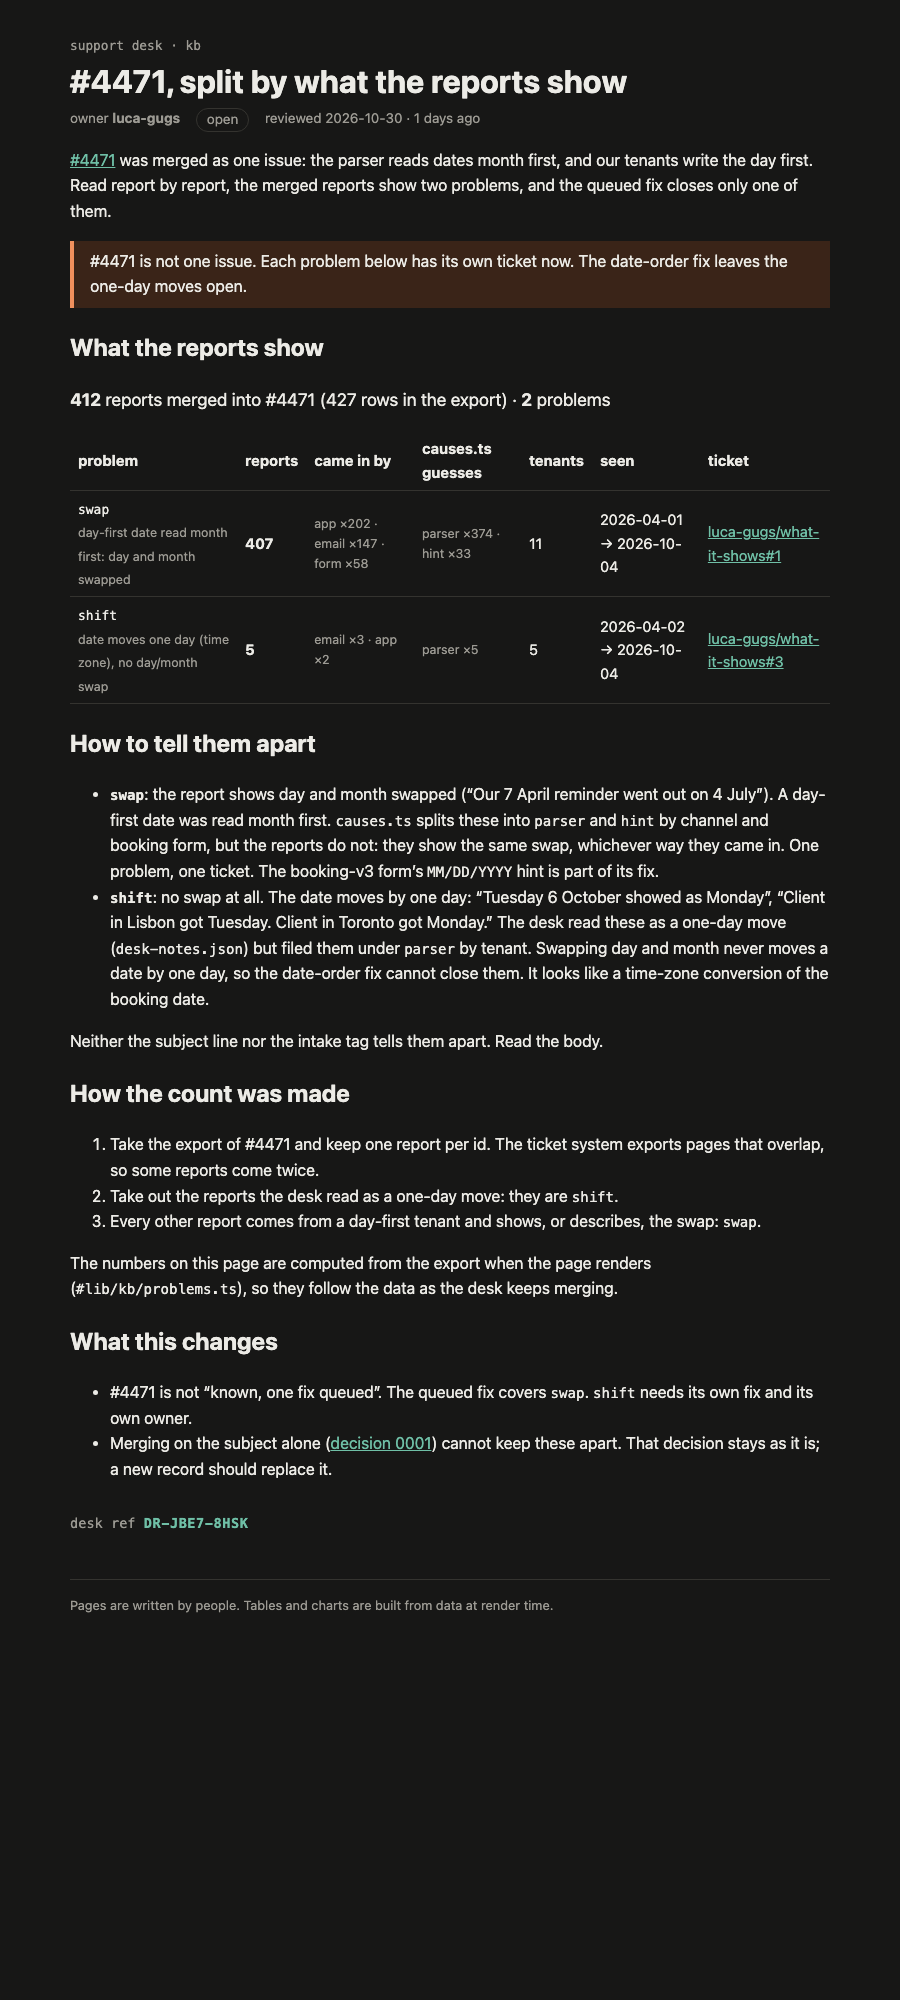
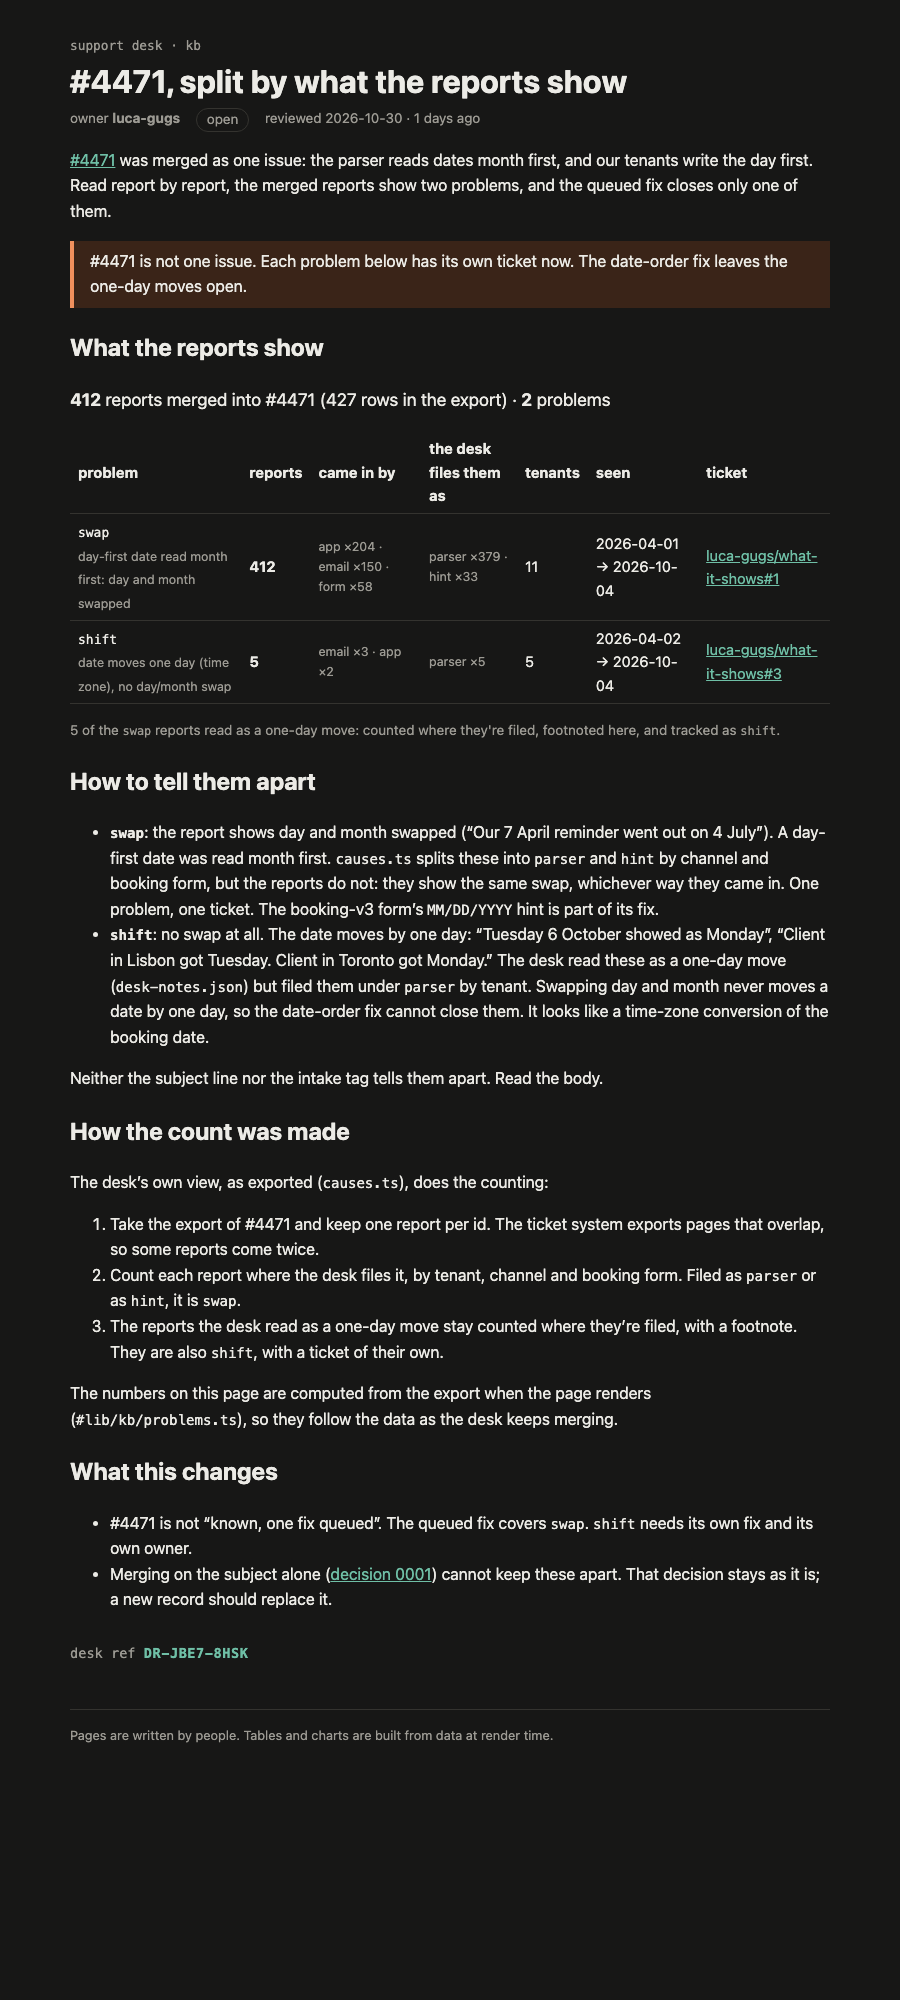
Count #4471's problems with the desk's own view: swap 412, shift 5
Each report is counted where the desk files it; the one-day moves stay
counted under swap with a footnote and also make up shift.

diff --git a/rendered/kb--incidents--4471-split.html b/rendered/kb--incidents--4471-split.html
@@ -3,39 +3,41 @@
   <head>
     <meta charset="utf-8" />
     <meta name="viewport" content="width=device-width, initial-scale=1" />
-    <link href="../../_app/immutable/entry/start.ypSXCUn4.js" rel="modulepreload">
-		<link href="../../_app/immutable/chunks/DWQsTwSJ.js" rel="modulepreload">
+    <link href="../../_app/immutable/entry/start.CQW-oFAG.js" rel="modulepreload">
+		<link href="../../_app/immutable/chunks/DRIsWUox.js" rel="modulepreload">
 		<link href="../../_app/immutable/chunks/W8JXJZ79.js" rel="modulepreload">
-		<link href="../../_app/immutable/entry/app.CPaV1Nei.js" rel="modulepreload">
+		<link href="../../_app/immutable/entry/app.onHTpZM_.js" rel="modulepreload">
 		<link href="../../_app/immutable/chunks/xihTtKlq.js" rel="modulepreload">
 		<link href="../../_app/immutable/nodes/0.C46UDYLG.js" rel="modulepreload">
-		<link href="../../_app/immutable/nodes/5.CsN-SNQ-.js" rel="modulepreload">
-		<link href="../../_app/immutable/chunks/C-ymF44I.js" rel="modulepreload">
+		<link href="../../_app/immutable/nodes/5.D_m1s_YO.js" rel="modulepreload">
+		<link href="../../_app/immutable/chunks/BHqP9XoD.js" rel="modulepreload">
 		<link href="../../_app/immutable/chunks/DooIRhXB.js" rel="modulepreload">
 		<link href="../../_app/immutable/chunks/CVBzP17p.js" rel="modulepreload">
 		<link href="../../_app/immutable/chunks/CrgYNgkp.js" rel="modulepreload">
 		<!--e2jw2j--><!----><title>#4471, split by what the reports show · support kb</title>
 		<style>:root{--bg:#fbfaf7;--fg:#1d1d1b;--muted:#6b6a66;--line:#e3e0d8;--accent:#2f6f5e;--warn:#b4501f;--warn-bg:#fbeee6;--note-bg:#eef5f2;--mono:ui-monospace, "Cascadia Code", Menlo, monospace}@media (prefers-color-scheme:dark){:root{--bg:#171716;--fg:#ecebe6;--muted:#9c9a93;--line:#34332f;--accent:#6fbfa6;--warn:#f0905d;--warn-bg:#3a2418;--note-bg:#1d2c27}}body{background:var(--bg);color:var(--fg);margin:0;font:16px/1.6 system-ui,sans-serif}.kb table{border-collapse:collapse;width:100%;margin:1rem 0;font-size:.92rem}.kb th,.kb td{border-bottom:1px solid var(--line);text-align:left;padding:.35rem .5rem}.kb code{font-family:var(--mono);font-size:.88em}.kb a{color:var(--accent)}.kb.svelte-e2jw2j{max-width:760px;margin:0 auto;padding:2rem 16px 4rem}.crumb.svelte-e2jw2j{font:.8rem var(--mono);color:var(--muted);text-decoration:none}h1.svelte-e2jw2j{margin:.25rem 0 .5rem;line-height:1.2}.meta.svelte-e2jw2j{color:var(--muted);flex-wrap:wrap;gap:.5rem 1rem;margin:0;font-size:.85rem;display:flex}.status.svelte-e2jw2j{border:1px solid var(--line);border-radius:99px;padding:0 .6rem}.stale.svelte-e2jw2j{color:var(--warn);font-weight:600}.banner.svelte-e2jw2j{background:var(--warn-bg);color:var(--warn);border-radius:6px;padding:.6rem 1rem}footer.svelte-e2jw2j{color:var(--muted);border-top:1px solid var(--line);margin-top:3rem;padding-top:1rem;font-size:.8rem}
 aside.svelte-17bri61{border-left:4px solid var(--accent);background:var(--note-bg);margin:1rem 0;padding:.5rem 1rem}aside.warn.svelte-17bri61{border-color:var(--warn);background:var(--warn-bg)}
-.sum.svelte-1op6c6{font-size:1.1rem}.what.svelte-1op6c6,.tags.svelte-1op6c6{color:var(--muted);font-size:.85em}.open.svelte-1op6c6 td:where(.svelte-1op6c6){background:var(--warn-bg)}.open.svelte-1op6c6 td:where(.svelte-1op6c6):last-child{color:var(--warn);font-weight:600}.stamp.svelte-1280m42{font:.85rem var(--mono);color:var(--muted);margin:2rem 0 0}.stamp.svelte-1280m42 b:where(.svelte-1280m42){color:var(--accent);letter-spacing:.04em}.missing.svelte-1280m42{color:var(--warn)}
+.sum.svelte-1op6c6{font-size:1.1rem}.what.svelte-1op6c6,.tags.svelte-1op6c6,.note.svelte-1op6c6{color:var(--muted);font-size:.85em}.open.svelte-1op6c6 td:where(.svelte-1op6c6){background:var(--warn-bg)}.open.svelte-1op6c6 td:where(.svelte-1op6c6):last-child{color:var(--warn);font-weight:600}.stamp.svelte-1280m42{font:.85rem var(--mono);color:var(--muted);margin:2rem 0 0}.stamp.svelte-1280m42 b:where(.svelte-1280m42){color:var(--accent);letter-spacing:.04em}.missing.svelte-1280m42{color:var(--warn)}
 </style>
 		<link href="../../_app/immutable/assets/runbook.COyw0cbZ.css" rel="stylesheet" disabled media="(max-width: 0)">
 		<link href="../../_app/immutable/assets/Callout.AbLv9dM_.css" rel="stylesheet" disabled media="(max-width: 0)">
-		<link href="../../_app/immutable/assets/_page.D1Ln7qmf.css" rel="stylesheet" disabled media="(max-width: 0)">
+		<link href="../../_app/immutable/assets/_page.DS1G4YV-.css" rel="stylesheet" disabled media="(max-width: 0)">
   </head>
   <body data-sveltekit-preload-data="hover">
     <div style="display: contents"><!--[--><!--[0--><!--[--><!--[--><div class="kb svelte-e2jw2j"><header><a class="crumb svelte-e2jw2j" href="/kb">support desk · kb</a> <h1 class="svelte-e2jw2j">#4471, split by what the reports show</h1> <p class="meta svelte-e2jw2j"><span>owner <b>luca-gugs</b></span> <span class="status open svelte-e2jw2j">open</span> <span class="svelte-e2jw2j">reviewed 2026-10-30 · 1 days ago</span></p></header> <!--[-1--><!--]--> <main><p><a href="/kb/incidents/4471">#4471</a> was merged as one issue: the parser reads dates month first, and our
 tenants write the day first. Read report by report, the merged reports show two problems, and the
 queued fix closes only one of them.</p> <aside class="warn svelte-17bri61"><!---->#4471 is not one issue. Each problem below has its own ticket now. The date-order fix leaves the
-one-day moves open.<!----></aside><!----> <h2>What the reports show</h2> <p class="sum svelte-1op6c6"><strong>412</strong> reports merged into #4471 (427 rows in the export) · <strong>2</strong> problems</p> <table><thead><tr><th>problem</th><th>reports</th><th>came in by</th><th>causes.ts guesses</th><th>tenants</th><th>seen</th><th>ticket</th></tr></thead><tbody><!--[--><tr class="svelte-1op6c6"><td class="svelte-1op6c6"><code>swap</code><br/><span class="what svelte-1op6c6">day-first date read month first: day and month swapped</span></td><td class="svelte-1op6c6"><strong>407</strong></td><td class="tags svelte-1op6c6">app ×202 · email ×147 · form ×58</td><td class="tags svelte-1op6c6">parser ×374 · hint ×33</td><td class="svelte-1op6c6">11</td><td class="svelte-1op6c6">2026-04-01 → 2026-10-04</td><td class="svelte-1op6c6"><!--[0--><a href="https://github.com/luca-gugs/what-it-shows/issues/1">luca-gugs/what-it-shows#1</a><!--]--></td></tr><tr class="svelte-1op6c6"><td class="svelte-1op6c6"><code>shift</code><br/><span class="what svelte-1op6c6">date moves one day (time zone), no day/month swap</span></td><td class="svelte-1op6c6"><strong>5</strong></td><td class="tags svelte-1op6c6">email ×3 · app ×2</td><td class="tags svelte-1op6c6">parser ×5</td><td class="svelte-1op6c6">5</td><td class="svelte-1op6c6">2026-04-02 → 2026-10-04</td><td class="svelte-1op6c6"><!--[0--><a href="https://github.com/luca-gugs/what-it-shows/issues/3">luca-gugs/what-it-shows#3</a><!--]--></td></tr><!--]--></tbody></table><!----> <h2>How to tell them apart</h2> <ul><li><strong><code>swap</code></strong>: the report shows day and month swapped (“Our 7 April reminder went out on 4 July”). A
+one-day moves open.<!----></aside><!----> <h2>What the reports show</h2> <p class="sum svelte-1op6c6"><strong>412</strong> reports merged into #4471 (427 rows in the export) · <strong>2</strong> problems</p> <table><thead><tr><th>problem</th><th>reports</th><th>came in by</th><th>the desk files them as</th><th>tenants</th><th>seen</th><th>ticket</th></tr></thead><tbody><!--[--><tr class="svelte-1op6c6"><td class="svelte-1op6c6"><code>swap</code><br/><span class="what svelte-1op6c6">day-first date read month first: day and month swapped</span></td><td class="svelte-1op6c6"><strong>412</strong></td><td class="tags svelte-1op6c6">app ×204 · email ×150 · form ×58</td><td class="tags svelte-1op6c6">parser ×379 · hint ×33</td><td class="svelte-1op6c6">11</td><td class="svelte-1op6c6">2026-04-01 → 2026-10-04</td><td class="svelte-1op6c6"><!--[0--><a href="https://github.com/luca-gugs/what-it-shows/issues/1">luca-gugs/what-it-shows#1</a><!--]--></td></tr><tr class="svelte-1op6c6"><td class="svelte-1op6c6"><code>shift</code><br/><span class="what svelte-1op6c6">date moves one day (time zone), no day/month swap</span></td><td class="svelte-1op6c6"><strong>5</strong></td><td class="tags svelte-1op6c6">email ×3 · app ×2</td><td class="tags svelte-1op6c6">parser ×5</td><td class="svelte-1op6c6">5</td><td class="svelte-1op6c6">2026-04-02 → 2026-10-04</td><td class="svelte-1op6c6"><!--[0--><a href="https://github.com/luca-gugs/what-it-shows/issues/3">luca-gugs/what-it-shows#3</a><!--]--></td></tr><!--]--></tbody></table> <!--[--><!--[0--><p class="note svelte-1op6c6">5 of the <code>swap</code> reports read as a one-day move: counted where they're filed,
+      footnoted here, and tracked as <code>shift</code>.</p><!--]--><!--[-1--><!--]--><!--]--><!----> <h2>How to tell them apart</h2> <ul><li><strong><code>swap</code></strong>: the report shows day and month swapped (“Our 7 April reminder went out on 4 July”). A
 day-first date was read month first. <code>causes.ts</code> splits these into <code>parser</code> and <code>hint</code> by channel
 and booking form, but the reports do not: they show the same swap, whichever way they came in. One
 problem, one ticket. The booking-v3 form’s <code>MM/DD/YYYY</code> hint is part of its fix.</li> <li><strong><code>shift</code></strong>: no swap at all. The date moves by one day: “Tuesday 6 October showed as Monday”,
 “Client in Lisbon got Tuesday. Client in Toronto got Monday.” The desk read these as a one-day move
 (<code>desk-notes.json</code>) but filed them under <code>parser</code> by tenant. Swapping day and month never moves a
 date by one day, so the date-order fix cannot close them. It looks like a time-zone conversion of
-the booking date.</li></ul> <p>Neither the subject line nor the intake tag tells them apart. Read the body.</p> <h2>How the count was made</h2> <ol><li>Take the export of #4471 and keep one report per id. The ticket system exports pages that
-overlap, so some reports come twice.</li> <li>Take out the reports the desk read as a one-day move: they are <code>shift</code>.</li> <li>Every other report comes from a day-first tenant and shows, or describes, the swap: <code>swap</code>.</li></ol> <p>The numbers on this page are computed from the export when the page renders
+the booking date.</li></ul> <p>Neither the subject line nor the intake tag tells them apart. Read the body.</p> <h2>How the count was made</h2> <p>The desk’s own view, as exported (<code>causes.ts</code>), does the counting:</p> <ol><li>Take the export of #4471 and keep one report per id. The ticket system exports pages that
+overlap, so some reports come twice.</li> <li>Count each report where the desk files it, by tenant, channel and booking form. Filed as <code>parser</code> or as <code>hint</code>, it is <code>swap</code>.</li> <li>The reports the desk read as a one-day move stay counted where they’re filed, with a footnote.
+They are also <code>shift</code>, with a ticket of their own.</li></ol> <p>The numbers on this page are computed from the export when the page renders
 (<code>#lib/kb/problems.ts</code>), so they follow the data as the desk keeps merging.</p> <h2>What this changes</h2> <ul><li>#4471 is not “known, one fix queued”. The queued fix covers <code>swap</code>. <code>shift</code> needs its own fix and
 its own owner.</li> <li>Merging on the subject alone (<a href="/kb/decisions/0001-dedupe-by-subject">decision 0001</a>) cannot keep
 these apart. That decision stays as it is; a new record should replace it.</li></ul> <!--[0--><p class="stamp svelte-1280m42">desk ref <b class="svelte-1280m42">DR-JBE7-8HSK</b></p><!--]--><!----><!----></main> <footer class="svelte-e2jw2j">Pages are written by people. Tables and charts are built from data at render time.</footer></div><!--]--><!----><!--]--><!--]--> <!--[-1--><!--]--><!--]-->

diff --git a/src/lib/kb/problems.ts b/src/lib/kb/problems.ts
@@ -1,8 +1,8 @@
-// What a report shows, not which cause causes.ts guesses for it. causes.ts splits day-first tenants'
-// reports into `parser` and `hint` by channel and booking form; the reports themselves show one
-// thing, a day/month swap. The reports the desk read as a one-day move (desk-notes.json) show no
-// swap at all: no swap fix closes them. Two problems, by what the reports show.
-import { causeOf, type Report, type Tenant } from '#lib/kb/causes';
+// The problems in #4471, counted with the desk's own view (causes.ts, as exported). causes.ts files
+// day-first tenants' reports as `parser` or `hint` by channel and booking form; both show the same
+// day/month swap, so both are `swap`. The reports the desk read as a one-day move (desk-notes.json)
+// stay counted where they're filed and are footnoted there; they also make up `shift`.
+import { groupByCause, readAs, type CauseGroup, type Report, type Tenant } from '#lib/kb/causes';
 
 export type Problem = 'swap' | 'shift';
 
@@ -12,47 +12,47 @@ export const PROBLEM_LABEL: Record<Problem | 'unplaced', string> = {
   unplaced: 'no day-first tenant on file',
 };
 
-export function problemOf(r: Report, t: Tenant | undefined, oneDayMove: readonly string[]): Problem | 'unplaced' {
-  if (oneDayMove.includes(r.id)) return 'shift';
-  return causeOf(r, t) ? 'swap' : 'unplaced';
-}
-
-export type ProblemGroup = {
+export type ProblemRow = {
   problem: Problem | 'unplaced';
   reports: Report[];
+  // How the desk files these reports: cause → count.
+  filedAs: Record<string, number>;
+  // Of these, how many the desk read as a one-day move.
+  oneDayMove: number;
   tenants: number;
-  // How the reports came in: channel → count.
-  channels: Record<string, number>;
-  // What causes.ts guesses for them: cause → count.
-  guessed: Record<string, number>;
   firstSeen: string;
   lastSeen: string;
 };
 
 const tally = (keys: string[]) => keys.reduce<Record<string, number>>((n, k) => ({ ...n, [k]: (n[k] ?? 0) + 1 }), {});
 
-export function groupByProblem(
+function row(problem: ProblemRow['problem'], groups: CauseGroup[], oneDayMove: readonly string[]): ProblemRow {
+  const reports = groups.flatMap((g) => g.reports);
+  const days = reports.map((r) => r.receivedAt.slice(0, 10)).sort();
+  return {
+    problem,
+    reports,
+    filedAs: Object.fromEntries(groups.map((g) => [g.cause, g.reports.length])),
+    oneDayMove: groups.reduce((n, g) => n + readAs(g, oneDayMove), 0),
+    tenants: new Set(reports.map((r) => r.tenant)).size,
+    firstSeen: days[0],
+    lastSeen: days[days.length - 1],
+  };
+}
+
+export function problemRows(
   reports: Report[],
   tenantOf: (r: Report) => Tenant | undefined,
   oneDayMove: readonly string[],
-): ProblemGroup[] {
-  const byProblem = new Map<ProblemGroup['problem'], Report[]>();
-  for (const r of reports) {
-    const p = problemOf(r, tenantOf(r), oneDayMove);
-    byProblem.set(p, [...(byProblem.get(p) ?? []), r]);
-  }
-  return [...byProblem.entries()]
-    .map(([problem, rs]) => {
-      const days = rs.map((r) => r.receivedAt.slice(0, 10)).sort();
-      return {
-        problem,
-        reports: rs,
-        tenants: new Set(rs.map((r) => r.tenant)).size,
-        channels: tally(rs.map((r) => r.channel)),
-        guessed: tally(rs.map((r) => causeOf(r, tenantOf(r)) ?? 'none')),
-        firstSeen: days[0],
-        lastSeen: days[days.length - 1],
-      };
-    })
-    .sort((a, b) => b.reports.length - a.reports.length);
+): ProblemRow[] {
+  const groups = groupByCause(reports, tenantOf);
+  const filed = groups.filter((g) => g.cause !== 'unplaced');
+  const moved = groupByCause(reports.filter((r) => oneDayMove.includes(r.id)), tenantOf);
+  return [
+    row('swap', filed, oneDayMove),
+    row('shift', moved, oneDayMove),
+    ...groups.filter((g) => g.cause === 'unplaced').map((g) => row('unplaced', [g], oneDayMove)),
+  ].filter((p) => p.reports.length);
 }
+
+export const channels = (rs: Report[]) => tally(rs.map((r) => r.channel));

diff --git a/src/lib/kb/ProblemTable.svelte b/src/lib/kb/ProblemTable.svelte
@@ -3,14 +3,14 @@
   import notes from '#lib/data/desk-notes.json';
   import { uniqueById, type Report } from '#lib/kb/causes';
   import { tenantOf } from '#lib/kb/locales';
-  import { groupByProblem, PROBLEM_LABEL, type Problem } from '#lib/kb/problems';
+  import { channels, problemRows, PROBLEM_LABEL, type Problem } from '#lib/kb/problems';
 
   // `tickets`: where each problem is filed now, problem → ticket URL.
   let { ticket, tickets = {} }: { ticket: number; tickets?: Partial<Record<Problem, string>> } = $props();
 
   const rows = $derived((reports as Report[]).filter((r) => r.mergedInto === ticket));
   const merged = $derived(uniqueById(rows));
-  const groups = $derived(groupByProblem(merged, tenantOf, notes.oneDayMove));
+  const problems = $derived(problemRows(merged, tenantOf, notes.oneDayMove));
   const count = (n: Record<string, number>) =>
     Object.entries(n)
       .sort((a, b) => b[1] - a[1])
@@ -22,33 +22,42 @@
 
 <p class="sum">
   <strong>{merged.length}</strong> reports merged into #{ticket} ({rows.length} rows in the export) ·
-  <strong>{groups.length}</strong>
-  {groups.length === 1 ? 'problem' : 'problems'}
+  <strong>{problems.length}</strong>
+  {problems.length === 1 ? 'problem' : 'problems'}
 </p>
 
 <table>
   <thead>
-    <tr><th>problem</th><th>reports</th><th>came in by</th><th>causes.ts guesses</th><th>tenants</th><th>seen</th><th>ticket</th></tr>
+    <tr><th>problem</th><th>reports</th><th>came in by</th><th>the desk files them as</th><th>tenants</th><th>seen</th><th>ticket</th></tr>
   </thead>
   <tbody>
-    {#each groups as g (g.problem)}
-      {@const url = ticketOf(g.problem)}
+    {#each problems as p (p.problem)}
+      {@const url = ticketOf(p.problem)}
       <tr class:open={!url}>
-        <td><code>{g.problem}</code><br /><span class="what">{PROBLEM_LABEL[g.problem]}</span></td>
-        <td><strong>{g.reports.length}</strong></td>
-        <td class="tags">{count(g.channels)}</td>
-        <td class="tags">{count(g.guessed)}</td>
-        <td>{g.tenants}</td>
-        <td>{g.firstSeen} → {g.lastSeen}</td>
+        <td><code>{p.problem}</code><br /><span class="what">{PROBLEM_LABEL[p.problem]}</span></td>
+        <td><strong>{p.reports.length}</strong></td>
+        <td class="tags">{count(channels(p.reports))}</td>
+        <td class="tags">{count(p.filedAs)}</td>
+        <td>{p.tenants}</td>
+        <td>{p.firstSeen} → {p.lastSeen}</td>
         <td>{#if url}<a href={url}>{label(url)}</a>{:else}no ticket yet{/if}</td>
       </tr>
     {/each}
   </tbody>
 </table>
 
+{#each problems as p (p.problem)}
+  {#if p.problem !== 'shift' && p.oneDayMove}
+    <p class="note">
+      {p.oneDayMove} of the <code>{p.problem}</code> reports read as a one-day move: counted where they're filed,
+      footnoted here, and tracked as <code>shift</code>.
+    </p>
+  {/if}
+{/each}
+
 <style>
   .sum { font-size: 1.1rem; }
-  .what, .tags { color: var(--muted); font-size: 0.85em; }
+  .what, .tags, .note { color: var(--muted); font-size: 0.85em; }
   .open td { background: var(--warn-bg); }
   .open td:last-child { color: var(--warn); font-weight: 600; }
 </style>
